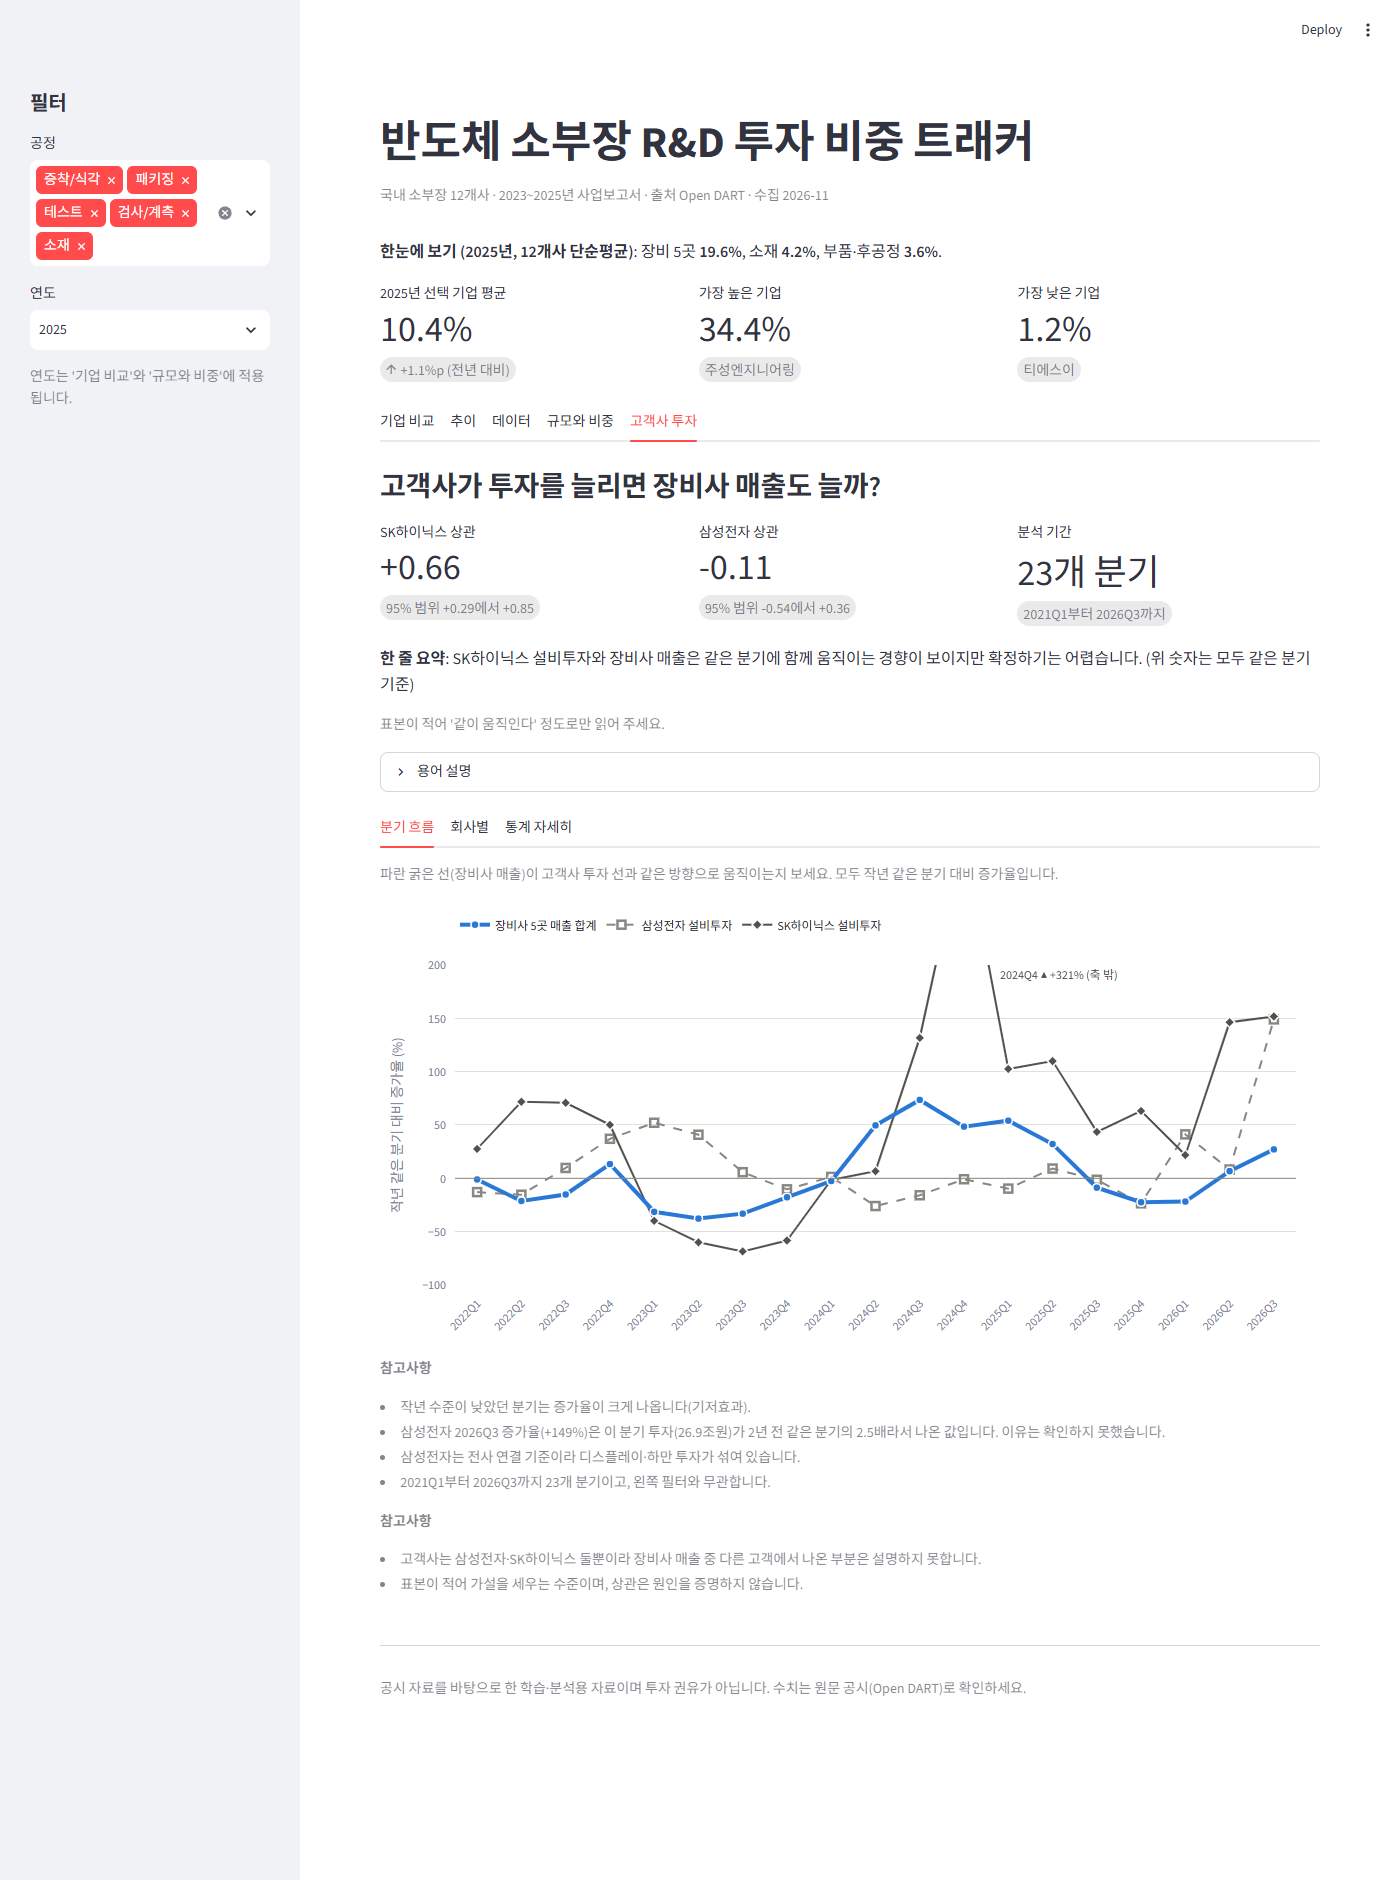
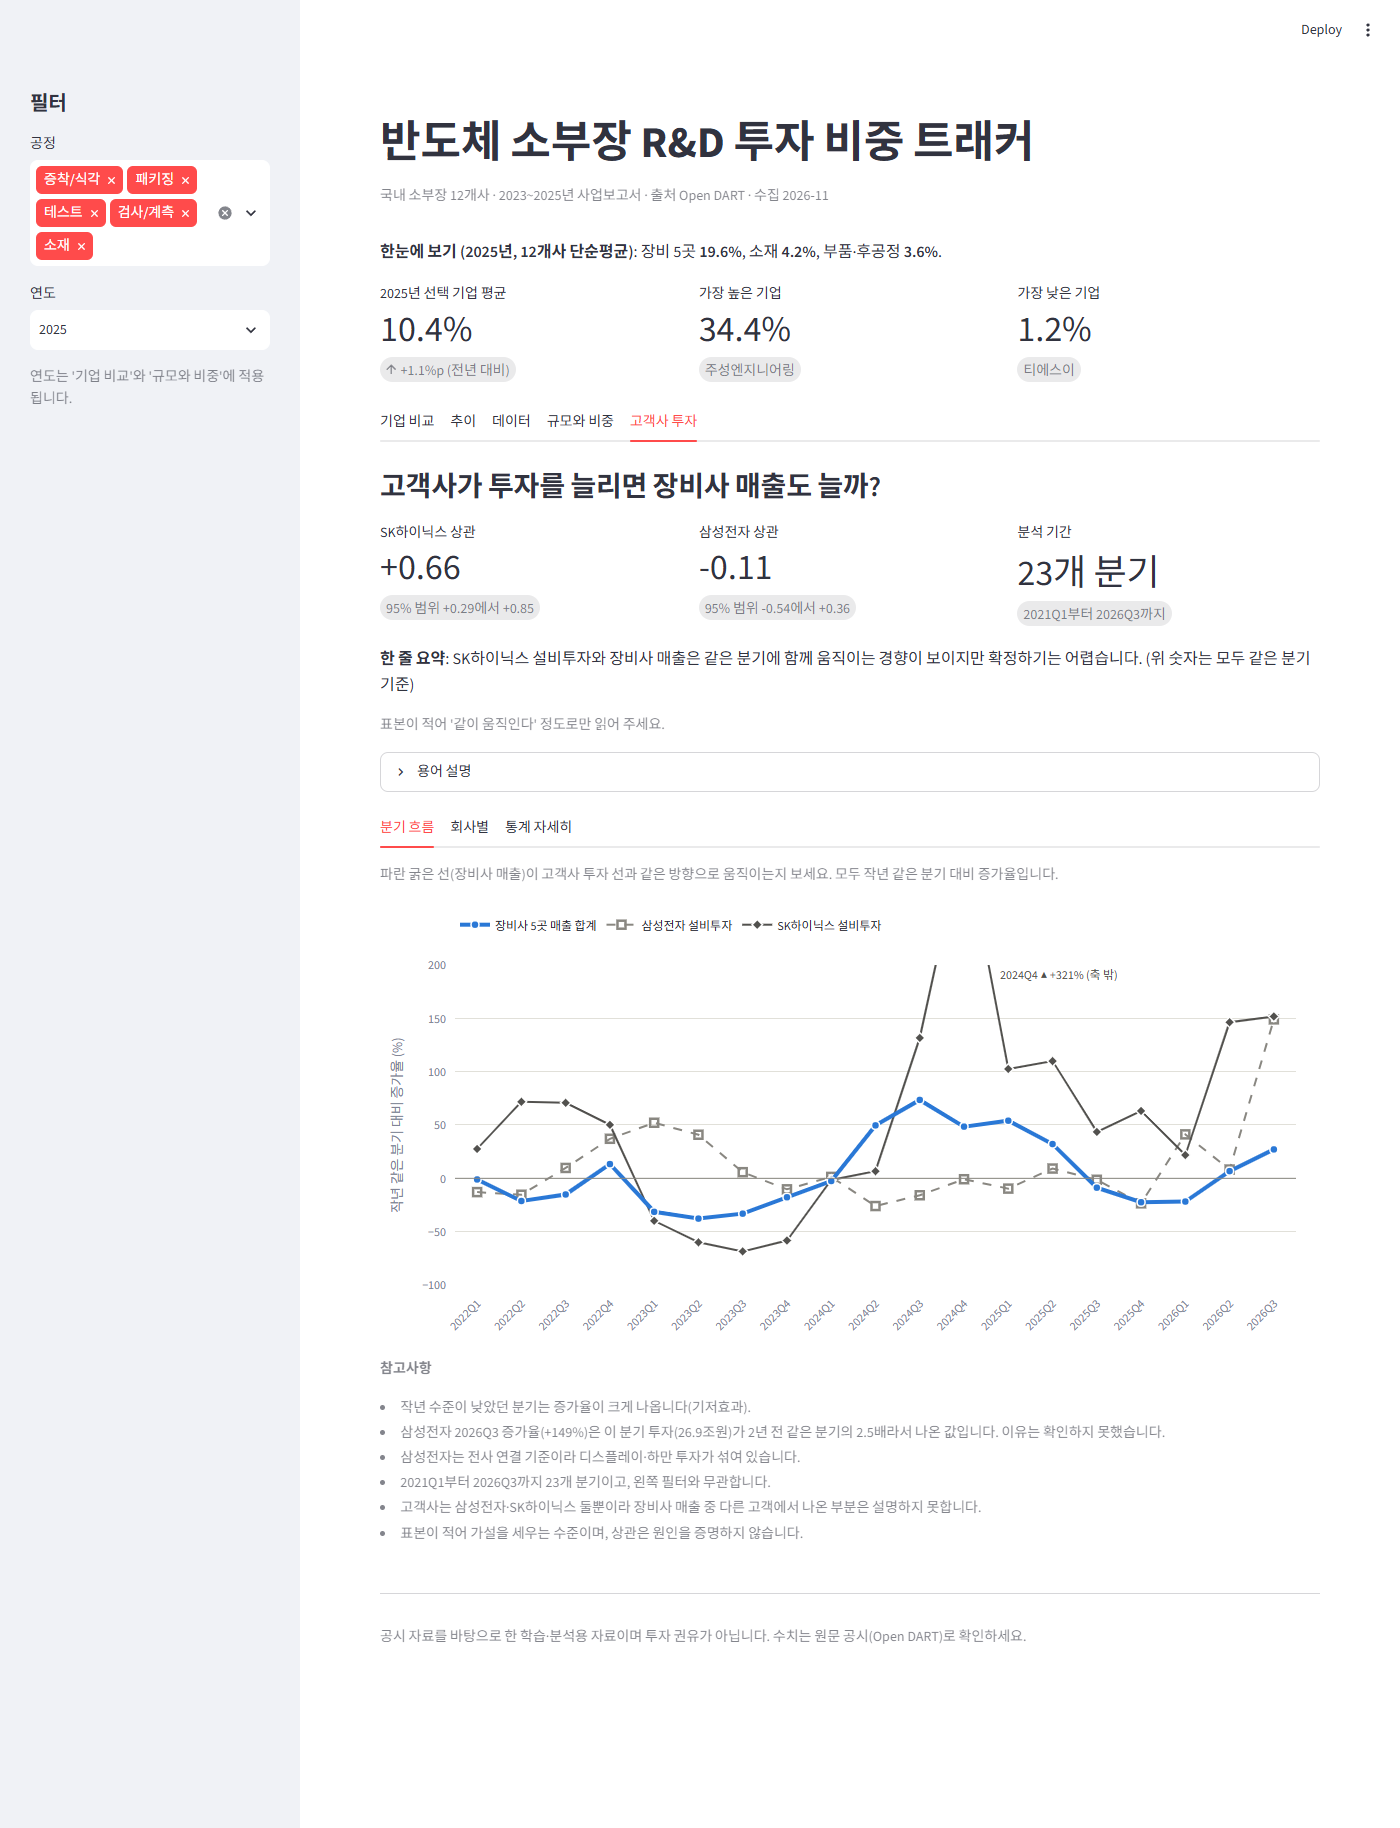
고객사 투자 탭 참고사항을 서브탭별 한 번으로 합치고 스크린샷 갱신

diff --git a/app.py b/app.py
@@ -670,7 +670,10 @@ TERMS = (
     "- **시차**: 고객사 투자 뒤 몇 분기 지나서 매출과 비교했는지.\n"
     "- **순열p**: 짝을 섞어도 이만큼 센 상관이 나올 확률. 작을수록 우연일 가능성이 낮습니다."
 )
-CI_CAPTION = "점이 위쪽일수록 같이 움직입니다. 세로선(95% 범위)이 0선을 지나면 관계가 있다고 말하기 어렵습니다."
+# 고객사 투자 탭의 공통 참고사항. 서브탭마다 '참고사항'이 따로 두 번 나오지 않게, 해당하는 서브탭의 참고사항에 하나로 합쳐 넣는다
+CUSTOMER_NOTE_ONLY_TWO = "고객사는 삼성전자·SK하이닉스 둘뿐이라 장비사 매출 중 다른 고객에서 나온 부분은 설명하지 못합니다."
+CUSTOMER_NOTE_SMALL_N = "표본이 적어 가설을 세우는 수준이며, 상관은 원인을 증명하지 않습니다."
+CI_CAPTION ="점이 위쪽일수록 같이 움직입니다. 세로선(95% 범위)이 0선을 지나면 관계가 있다고 말하기 어렵습니다."
 
 
 # ---------- 화면: 고객사 투자 탭 ----------
@@ -721,6 +724,8 @@ def render_customer_tab(c):
                     samsung_spike_note(q),
                     "삼성전자는 전사 연결 기준이라 디스플레이·하만 투자가 섞여 있습니다.",
                     f"{q['quarter'].iloc[0]}부터 {q['quarter'].iloc[-1]}까지 {len(q)}개 분기이고, 왼쪽 필터와 무관합니다.",
+                    CUSTOMER_NOTE_ONLY_TWO,
+                    CUSTOMER_NOTE_SMALL_N,
                 ])
 
     with t_firm:
@@ -752,7 +757,7 @@ def render_customer_tab(c):
                     st.dataframe(detail, hide_index=True, width="stretch", column_config={
                         "계약 수": cc.NumberColumn(format="%d"), "계약 중 SK(%)": cc.NumberColumn(format="%.0f"),
                     })
-                footnote([exposure_warning()])
+                footnote([exposure_warning(), CUSTOMER_NOTE_ONLY_TWO])
 
     with t_more:
         if need(lag, LAG_PATH, "python analyze_quarterly.py"):
@@ -784,12 +789,6 @@ def render_customer_tab(c):
                         "SK하이닉스 투자(조원)": cc.NumberColumn(format="%.1f"),
                         "장비사 매출 합계(억원)": cc.NumberColumn(format="localized"),
                     })
-
-    # 이 탭 전체에 해당하는 참고사항 (맨 아래에 한 번만)
-    footnote([
-        "고객사는 삼성전자·SK하이닉스 둘뿐이라 장비사 매출 중 다른 고객에서 나온 부분은 설명하지 못합니다.",
-        "표본이 적어 가설을 세우는 수준이며, 상관은 원인을 증명하지 않습니다.",
-    ])
 
 
 # ---------- 화면: 나머지 탭 ----------
